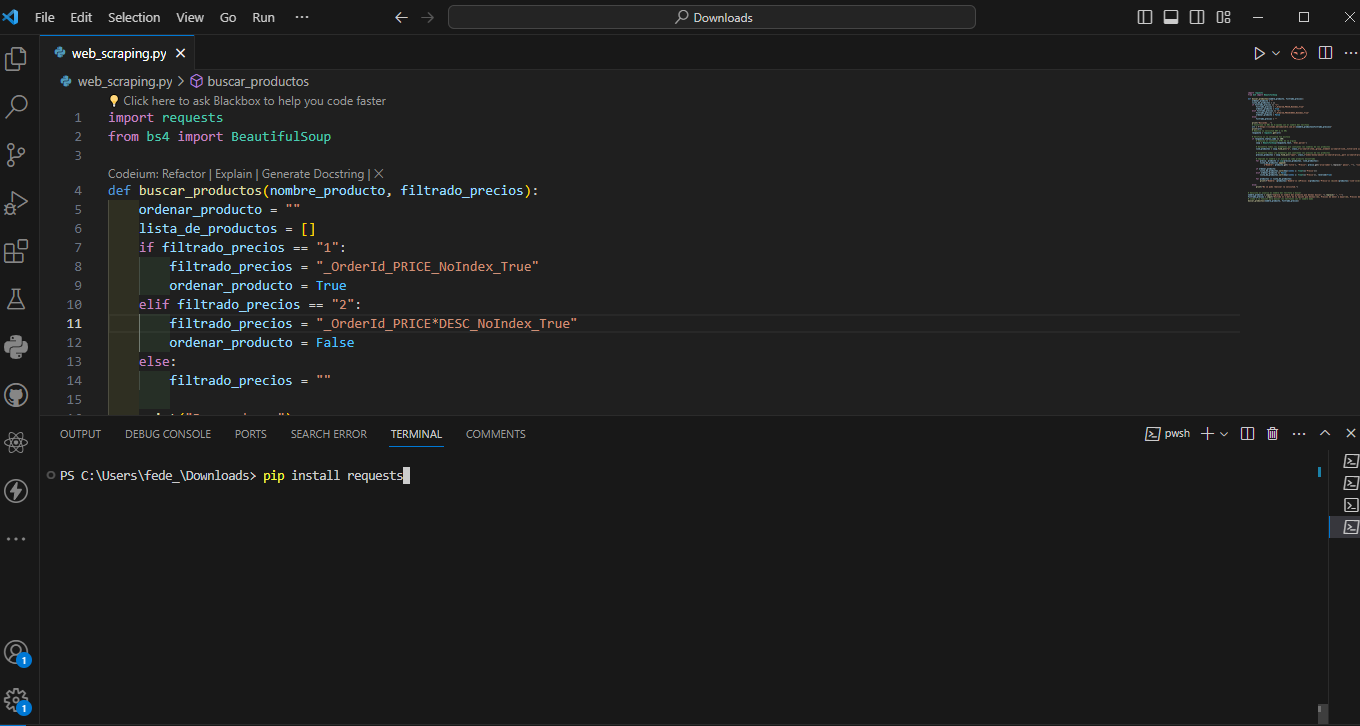
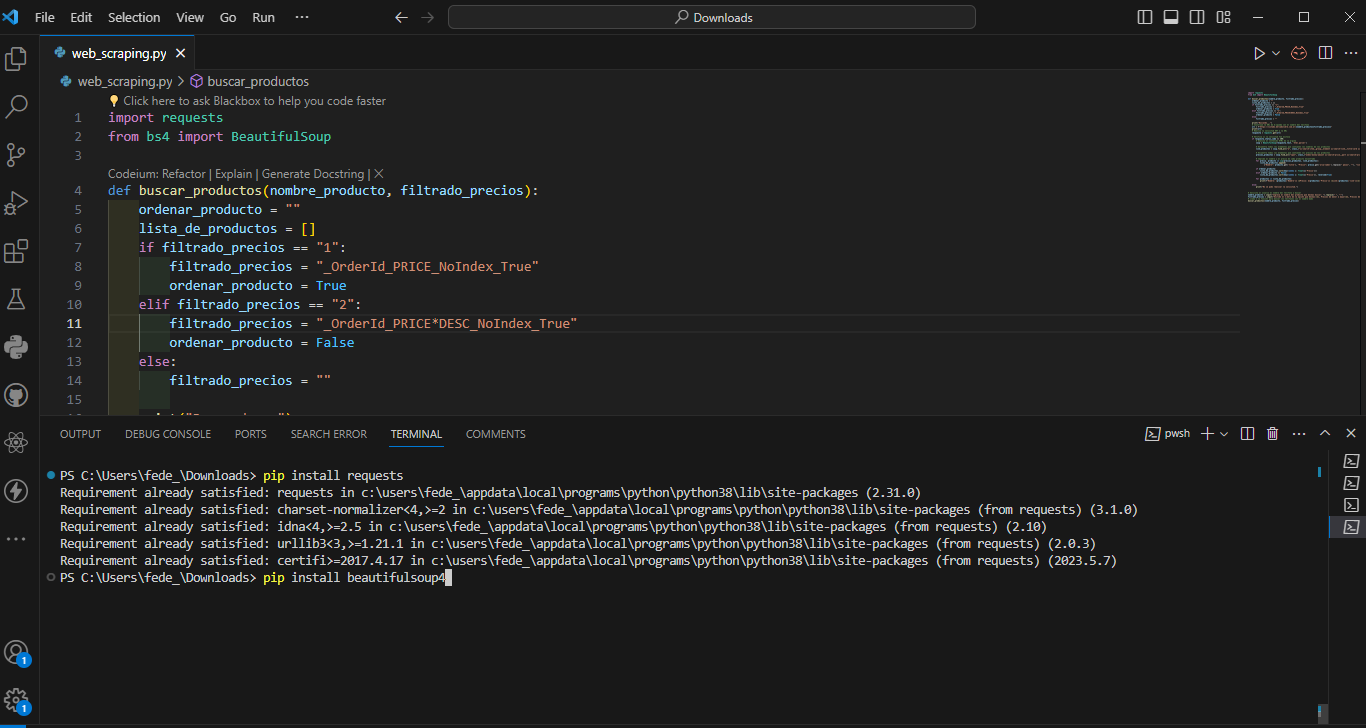
add content in projects

diff --git a/src/components/Projects/Projects.js b/src/components/Projects/Projects.js
@@ -176,22 +176,61 @@ const Projects = () => {
                                     <img className="w-75 d-block mx-auto mb-4 border-content" alt="" src="../img/projects/web_scraping.webp"></img>
                                     <p className="text-break mx-auto w-75"><span className="fw-bold">2_ </span> Después de abrir el archivo desde Visual Studio Code, abre la terminal desde "Terminal/New terminal.</p>
                                     <img className="w-75 d-block mx-auto mb-4 border-content" alt="" src="../img/projects/web_scraping2.webp"></img>
-                                    <p className="text-break mx-auto w-75"><span className="fw-bold">3_ </span> Dentro de la terminal escribe: pip install pillow, esto instalará la libreria Pil.</p>
+                                    <p className="text-break mx-auto w-75"><span className="fw-bold">3_ </span> Dentro de la terminal escribe: pip install request, esto instalará la libreria request.</p>
                                     <img className="w-75 d-block mx-auto mb-4 border-content" alt="" src="../img/projects/web_scraping3.webp"></img>
-                                    <p className="text-break mx-auto w-75"><span className="fw-bold">4_ </span> En caso que te indique para actualizar el instalador de paquetes pip, dentro de la terminal escribe: python.exe m pip install --upgrade pip</p>
+                                    <p className="text-break mx-auto w-75"><span className="fw-bold">4_ </span> Luego de instalar request, escribe en la terminal: pip install beautifulsoup, esto instalará la libreria beautifulsoup</p>
                                     <img className="w-75 d-block mx-auto mb-4 border-content" alt="" src="../img/projects/web_scraping4.webp"></img>
-                                    <p className="text-break mx-auto w-75"><span className="fw-bold">5_ </span> Dentro de la terminal escribe: python index.py, esto ejecutará el programa. Recuerda que debes crear una carpeta llamada "img" en tu directoria, allí vas a dejar todas las imágenes que quieras convertir</p>
+                                    <p className="text-break mx-auto w-75"><span className="fw-bold">5_ </span> Dentro de la terminal escribe: python index.py, esto ejecutará el programa.</p>
                                     <img className="w-75 d-block mx-auto mb-4 border-content" alt="" src="../img/projects/web_scraping5.webp"></img>
-                                    <p className="text-break mx-auto w-75"><span className="fw-bold">3_ </span> Dentro de la terminal escribe: pip install pillow, esto instalará la libreria Pil.</p>
-                                    <img className="w-75 d-block mx-auto mb-4 border-content" alt="" src="../img/projects/web_scraping6.webp"></img>
-                                    <p className="text-break mx-auto w-75"><span className="fw-bold">4_ </span> En caso que te indique para actualizar el instalador de paquetes pip, dentro de la terminal escribe: python.exe m pip install --upgrade pip</p>
-                                    <img className="w-75 d-block mx-auto mb-4 border-content" alt="" src="../img/projects/web_scraping7.webp"></img>
-                                    <p className="text-break mx-auto w-75"><span className="fw-bold">5_ </span> Dentro de la terminal escribe: python index.py, esto ejecutará el programa. Recuerda que debes crear una carpeta llamada "img" en tu directoria, allí vas a dejar todas las imágenes que quieras convertir</p>
-                                    <img className="w-75 d-block mx-auto mb-4 border-content" alt="" src="../img/projects/web_scraping8.webp"></img>
                                     <h3 className="text-break mx-auto w-75 mt-4">Ejemplo de uso</h3>
                                     <ul className="w-75 mx-auto">
                                         <li><p>Escribe el nombre del producto que quieras buscar.</p></li>
                                         <li><p>Escribe un número de las opciones para ordenar los precios del producto.</p></li>
+                                    </ul>
+                                </div>
+                            </div>
+                        </div>
+                        <div id="element6" className={`mt-4 rounded-5 animated-left ${elementVisibility.element6 ? 'slide-left' : ''}`} style={{ background: colorPrimaryPython, borderRadius: "40px" }}>
+                            <button className="accordion-button collapsed bg-transparent" type="button" data-bs-toggle="collapse" data-bs-target="#a5" aria-expanded="false" aria-controls="flush-collapseFive">
+                                <h2 className="text-light">Virtual mouse</h2>
+                            </button>
+                            <div id="a5" className="accordion-collapse collapse" data-bs-parent="#accordionFlushExample">
+                                <div className="accordion-body text-light bg-dark rounded-5 rounded-top">
+                                    <h3 className="text-break mx-auto w-75 mt-4">Descripción</h3>
+                                    <p className="text break mx-auto mt-4 w-75">Este programa utiliza la biblioteca OpenCV (cv2), MediaPipe (mediapipe), NumPy (np), PyAutoGUI (pyautogui) y time para detectar la posición de la mano y simular movimientos del mouse en función de los gestos de la mano detectados.</p>
+                                    <h3 className="text-break mx-auto w-75 mt-4">Pasos Clave del proyecto</h3>
+                                    <ul className="w-75 mx-auto">
+                                        <li><p><span className="fw-bold">Ejecución del entorno virtual: </span> Este entorno vitual contiene la versión de python 3.8 y las librerias necesarias para ejecutarlo(carpeta "virtualmouse").</p></li>
+                                        <li><p><span className="fw-bold">Detección de manos: </span> Se configura el modelo de detección de manos utilizando la clase Hands de MediaPipe.</p></li>
+                                        <li><p><span className="fw-bold">Capturar el video de la cámara: </span> Se captura el video de la cámara utilizando OpenCV.</p></li>
+                                        <li><p><span className="fw-bold">Procesar cada fotograma del video: </span> Se procesa cada fotograma del video para detectar la posición de la mano y realizar acciones en función de los gestos detectados.</p></li>
+                                        <li><p><span className="fw-bold">Área de interacción: </span> Se dibuja un área de interacción en la pantalla del video.</p></li>
+                                        <li><p><span className="fw-bold">Realizar acciones del mouse: </span> Se mueve el cursor del mouse y se simulan clics y desplazamientos de la rueda del mouse utilizando PyAutoGUI.</p></li>
+                                    </ul>
+                                    <h3 className="text-break mx-auto w-75 mt-4">Librerias</h3>
+                                    <ul className="w-75 mx-auto">
+                                        <li><p><span className="fw-bold">OpenCV (cv2):</span> Para la captura de video, procesamiento de imágenes y visualización.</p></li>
+                                        <li><p><span className="fw-bold">MediaPipe (mediapipe):</span> Para la detección de manos y el seguimiento de puntos de referencia en la mano.</p></li>
+                                        <li><p><span className="fw-bold">NumPy (np):</span> Para realizar operaciones numéricas, como cálculos de distancia.</p></li>
+                                        <li><p><span className="fw-bold">PyAutoGUI (pyautogui):</span> Para controlar el cursor del mouse y simular acciones del mouse, como clics y desplazamientos de la rueda del mouse.</p></li>
+                                        <li><p><span className="fw-bold">Time:</span> Para realizar pausas o esperas en el script.</p></li>
+                                    </ul>
+                                    <h3 className="text-break mx-auto w-75 mt-4">Instalación</h3>
+                                    <p className="text-break mx-auto w-75"><span className="fw-bold">1_  </span> Descargá la carpeta "mouse" desde este link -- <Link to="https://drive.google.com/drive/u/0/folders/1q-lgvOBQV-xjJQ_tX2uzgnIP2BaJF1MB" target='_blank' className="text-primary">Virtual Mouse</Link>.</p>
+                                    <img className="w-75 d-block mx-auto mb-4 border-content" alt="" src="../img/projects/virtualmouse.webp"></img>
+                                    <p className="text-break mx-auto w-75"><span className="fw-bold">2_ </span> Después de abrir el archivo desde Visual Studio Code, abre la terminal desde "Terminal/New terminal.</p>
+                                    <img className="w-75 d-block mx-auto mb-4 border-content" alt="" src="../img/projects/virtualmouse2.webp"></img>
+                                    <p className="text-break mx-auto w-75"><span className="fw-bold">3_ </span> Dentro de la terminal escribe: pip install virtualenv, esto instalará la libreria virtualenv, es la encargada de realizar el entorno virtual.</p>
+                                    <img className="w-75 d-block mx-auto mb-4 border-content" alt="" src="../img/projects/virtualmouse3.webp"></img>
+                                    <p className="text-break mx-auto w-75"><span className="fw-bold">4_ </span> Luego de instalar el entorno virtual, escribe en la terminal: virtualmouse\Scripts\activate, esto hará que el entorno virtual este activo.</p>
+                                    <img className="w-75 d-block mx-auto mb-4 border-content" alt="" src="../img/projects/virtualmouse4.webp"></img>
+                                    <p className="text-break mx-auto w-75"><span className="fw-bold">5_ </span> Dentro de la terminal escribe: python mouse_control_game.py, esto ejecutará el programa. En caso de no ejecutarse, debes instalar la version de python 3.8.3.0 y realizar de nuevo de proceso.</p>
+                                    <img className="w-75 d-block mx-auto mb-4 border-content" alt="" src="../img/projects/virtualmouse5.webp"></img>
+                                    <h3 className="text-break mx-auto w-75 mt-4">Instrucciones</h3>
+                                    <ul className="w-75 mx-auto">
+                                        <li><p>Si tu dedo pulgar lo acercas a la palma de la mano, la rueda del mouse se moverá.</p></li>
+                                        <li><p>Si tu dedo indice lo acercas a la palma de la mano, hará click izquierda del mouse.</p></li>
+                                        <li><p>Si tu dedo medio lo acercas a la palma de la mano, hará click derecho del mouse.</p></li>
                                     </ul>
                                 </div>
                             </div>

diff --git a/src/components/Navbar/Navbar.js b/src/components/Navbar/Navbar.js
@@ -32,11 +32,10 @@ const Navbar = () => {
 
   return (
     <>
-      <header id="header" className="fixed-top d-flex align-items-center header-transparent" style={{ background: backgroundColor }}>
+      <header id="header" className="fixed-top d-flex align-items-center header-transparent" style={{ background: color }}>
         <div className="container d-flex align-items-center justify-content-between">
           <div className="logo">
             <h1><a href="/"><span>Fablab - python</span></a></h1>
-            <a href="/"><img src="assets/img/logo.png" alt="" className="img-fluid" /></a>
           </div>
           <nav id="navbar" className={isMobileNavOpen ? 'navbar navbar-mobile h-auto' : 'navbar'}>
             <ul className={isMobileNavOpen ? 'h-50 ml-6 mr-6' : ''}>
